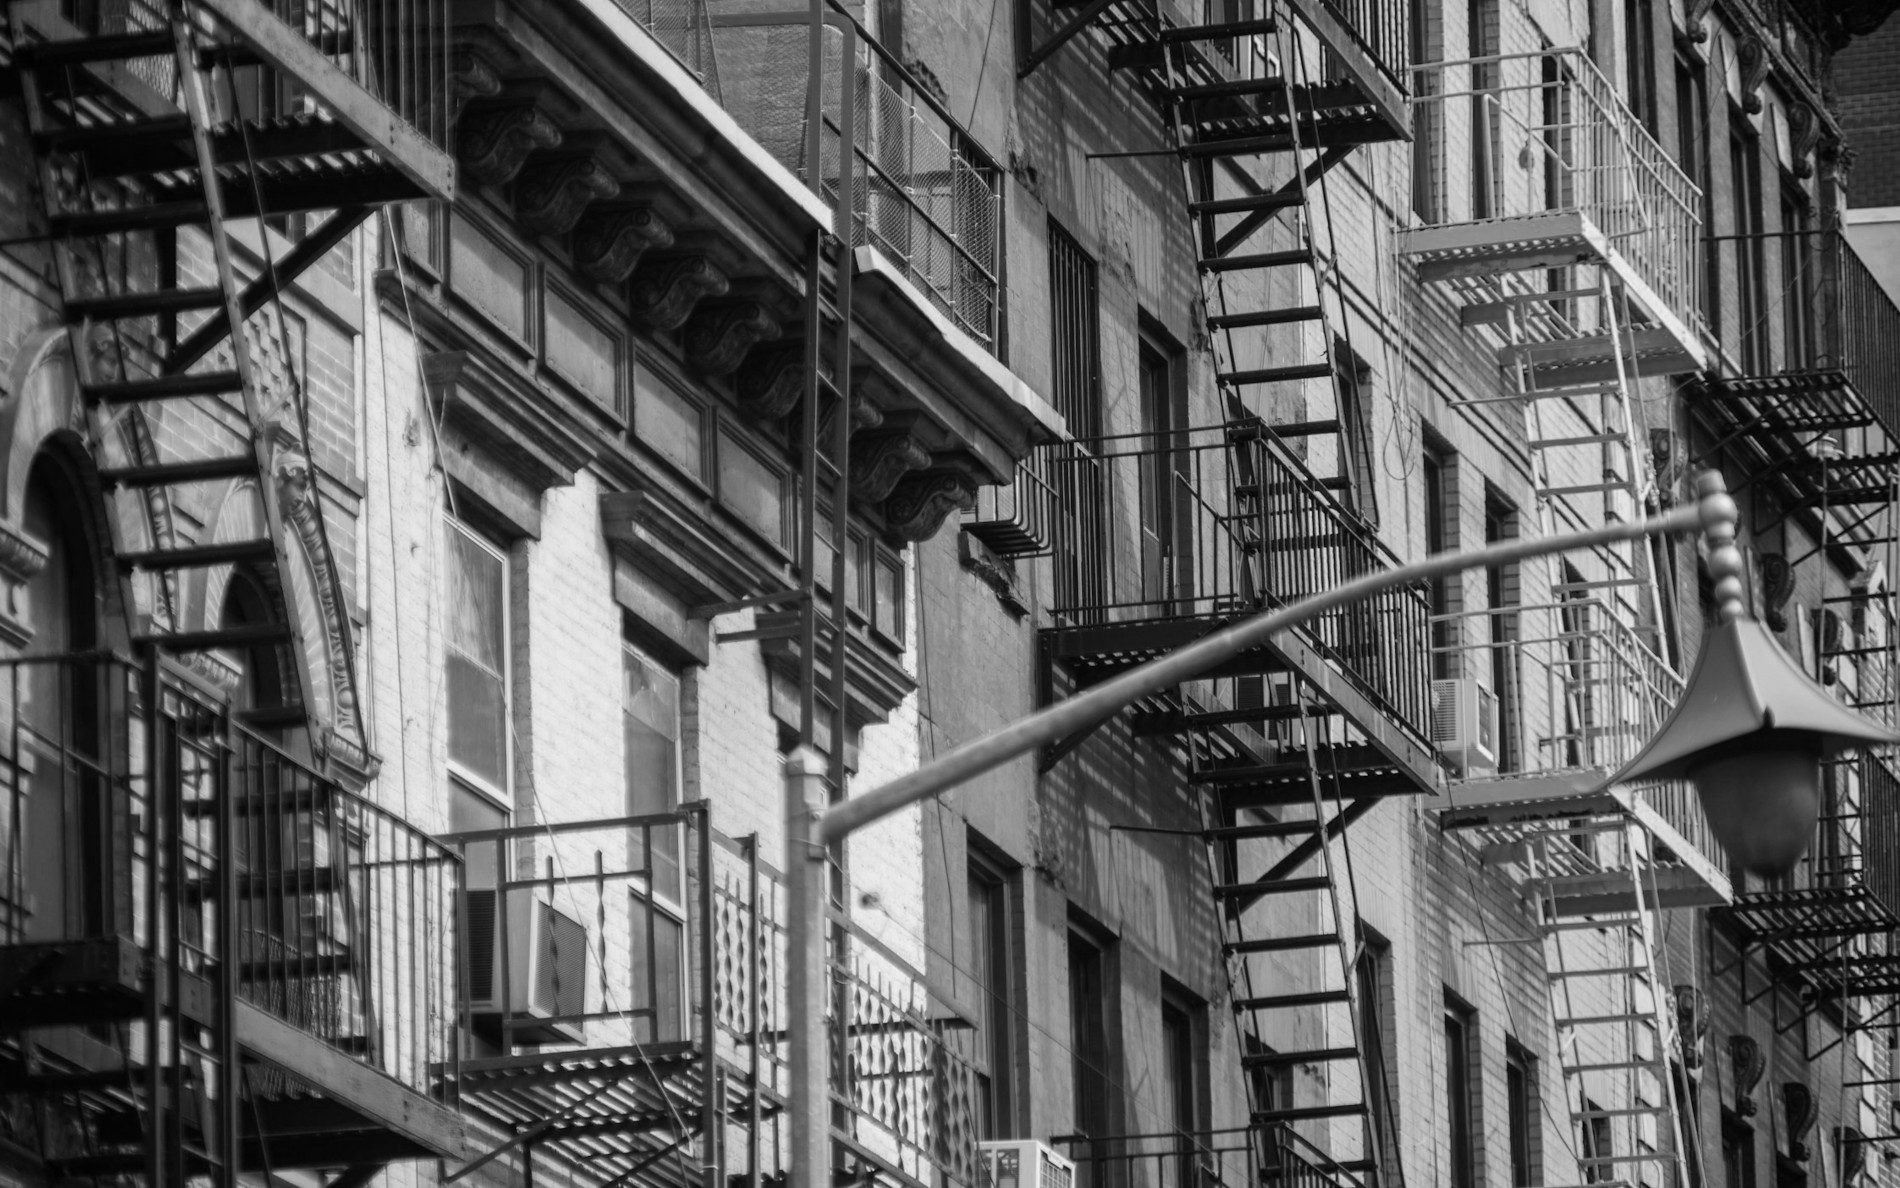
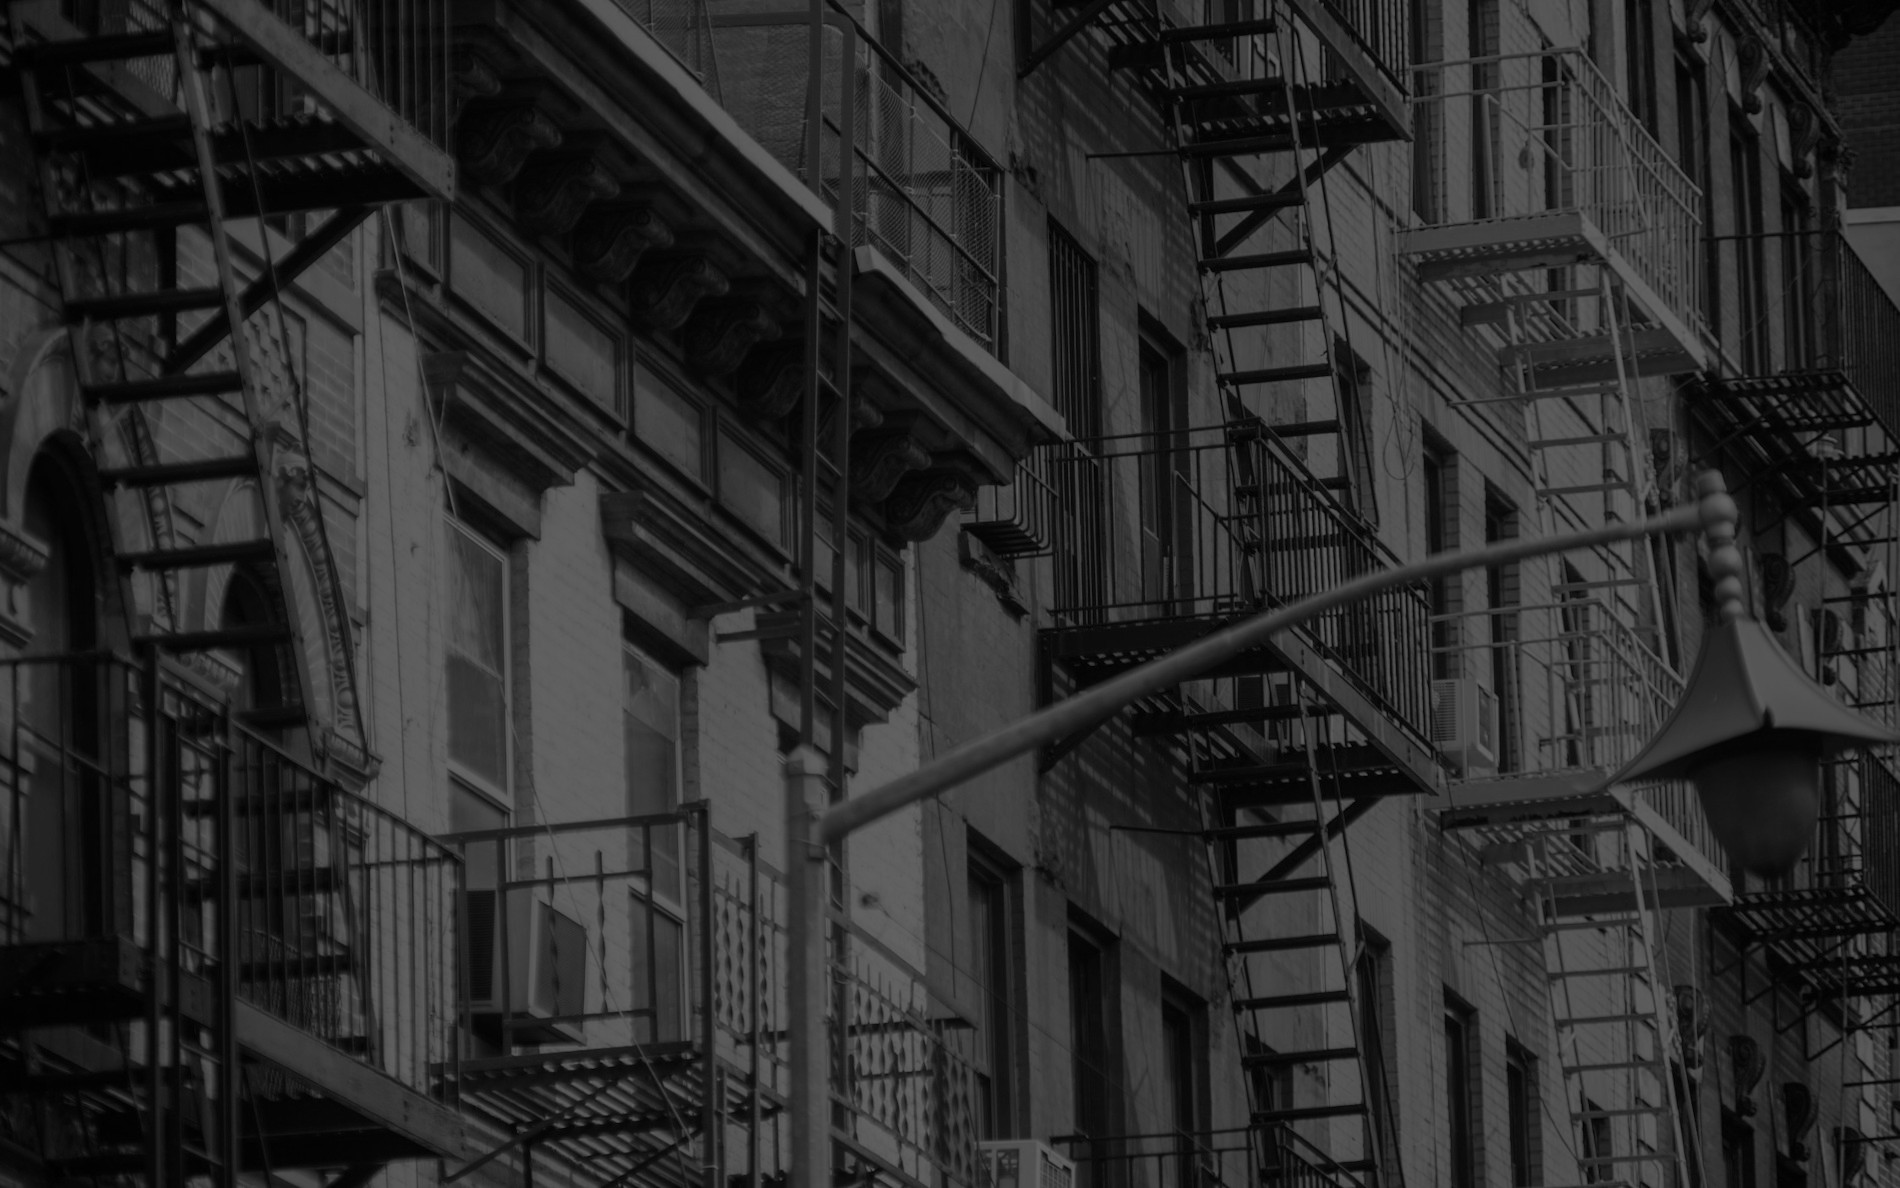
Updated conclusion to be more readable

diff --git a/bootstrap-site/css/styles.css b/bootstrap-site/css/styles.css
@@ -8247,7 +8247,7 @@ textarea.form-control-lg {
 
 .text-white-50 {
   --bs-text-opacity: 1;
-  color: rgba(255, 255, 255, 0.5) !important;
+  color: rgba(255, 255, 255, 0.75) !important;
 }
 
 .text-reset {
